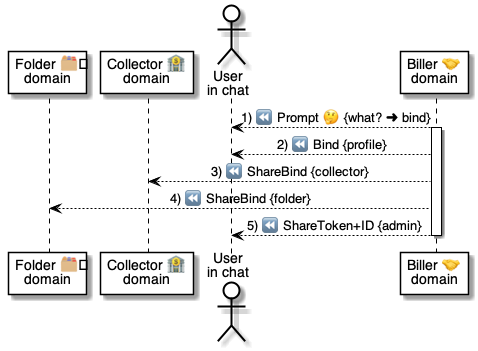
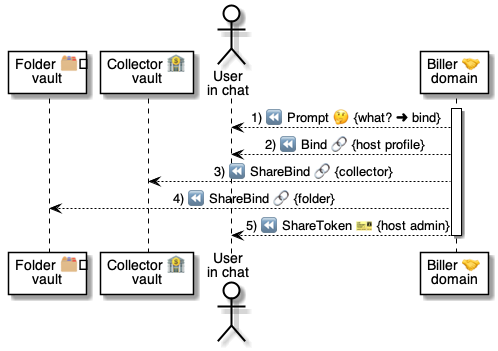
.

diff --git a/4 ⚙ Solution/20 🧑🦰 UI/01 🧑🦰 Wallets/01 🧑🦰 Wallet app.md b/4 ⚙ Solution/20 🧑🦰 UI/01 🧑🦰 Wallets/01 🧑🦰 Wallet app.md
@@ -144,7 +144,7 @@
     ||[👉 Home](<../../../5 ⏩ Flows/90 🧑🦰👉 Wallets/20 👉💬 Chats/02 🧑🦰👉🤵 Host home.md>) | Show the [Host's 🤗 ](<../12 💬 Chats/04 🤗🎭 Host role.md>) menu in a [Chat 💬](<../12 💬 Chats/01 💬 Chat.md>)
     ||[👉 Abandon](<../../../5 ⏩ Flows/90 🧑🦰👉 Wallets/20 👉💬 Chats/03 🧑🦰👉🤵 Abandon chat.md>) | Unilaterally abandon a [Chat 💬](<../12 💬 Chats/01 💬 Chat.md>)
     | 🔗 Binds | [👉 Binds ](<../../../5 ⏩ Flows/90 🧑🦰👉 Wallets/30 👉🔗 Binds/01 🧑🦰👉🤵 List Binds.md>) | List the user's [Binds 🔗](<../24 🗄 Vaults/01 🔗 Bind.md>)
-    || [👉 Bind](<../../../5 ⏩ Flows/90 🧑🦰👉 Wallets/30 👉🔗 Binds/02 🧑🦰👉🗄 Bind.md>) | [Bind 🔗](<../24 🗄 Vaults/01 🔗 Bind.md>) the [Wallet 🧑🦰](<01 🧑🦰 Wallet app.md>) to a [Vault 🗄](<../24 🗄 Vaults/03 🗄🎭 Vault role.md>)
+    || [👉 Bind](<../../../5 ⏩ Flows/90 🧑🦰👉 Wallets/30 👉🔗 Binds/02 🧑🦰👉🗄 Bind 🔗.md>) | [Bind 🔗](<../24 🗄 Vaults/01 🔗 Bind.md>) the [Wallet 🧑🦰](<01 🧑🦰 Wallet app.md>) to a [Vault 🗄](<../24 🗄 Vaults/03 🗄🎭 Vault role.md>)
     || [👉 Unbind](<../../../5 ⏩ Flows/90 🧑🦰👉 Wallets/30 👉🔗 Binds/03 🧑🦰👉🗄 Unbind.md>) | Remove a [Bind 🔗](<../24 🗄 Vaults/01 🔗 Bind.md>) from a [Vault 🗄](<../24 🗄 Vaults/03 🗄🎭 Vault role.md>)
     ||[👉 Share](<../../../5 ⏩ Flows/90 🧑🦰👉 Wallets/30 👉🔗 Binds/04 🧑🦰👉💼 Share Bind.md>) | Shares a [Bind 🔗](<../24 🗄 Vaults/01 🔗 Bind.md>) with a [Consumer 💼](<../27 💼 Consumers/04 💼🎭 Consumer role.md>)
     |🎫 Tokens| [👉 Tokens](<../../../5 ⏩ Flows/90 🧑🦰👉 Wallets/40 👉🎫 Tokens/01 🧑🦰👉🤵 List Tokens.md>)| List the user's [Tokens 🎫](<../../../4 ⚙ Solution/20 🧑🦰 UI/25 🎫 Tokens/01 🎫 Token.md>)

diff --git a/4 ⚙ Solution/20 🧑🦰 UI/24 🗄 Vaults/05 🛠👥 Helper domain.md b/4 ⚙ Solution/20 🧑🦰 UI/24 🗄 Vaults/05 🛠👥 Helper domain.md
@@ -87,7 +87,7 @@
     | - | - | - 
     | 🛠 [Helper](<05 🛠👥 Helper domain.md>) | 😃 Hi! What do you need? <br/>- [ Register ]  | > Register
     | 🤵 [Broker](<../../../4 ⚙ Solution/20 🧑🦰 UI/03 🤵 Brokers/03 🤵 Broker domain.md>) | 🫥 [Ready to register?](<../../../5 ⏩ Flows/20 💼⏩ Consumers/02 💼⏩🧑🦰 Inform 📝.md>) [Yes, No] <br>- Your broker binds with us 🔗 <br/>- You choose a billing plan 🤝 <br/>- Your payer adds a method 💳 <br/>- Your identity signs the terms 🆔 | > Yes
-    | 🤵 [Broker](<../03 🤵 Brokers/03 🤵 Broker domain.md>) | 🫥 [Bind?](<../../../5 ⏩ Flows/90 🧑🦰👉 Wallets/30 👉🔗 Binds/02 🧑🦰👉🗄 Bind.md>) [Yes, No, +]<br/>- [Host Profile 🧩](<../../../7 🧩 Codes/HOST/🧩 HostPersonalize.md>) | > Yes 
+    | 🤵 [Broker](<../03 🤵 Brokers/03 🤵 Broker domain.md>) | 🫥 [Bind?](<../../../5 ⏩ Flows/90 🧑🦰👉 Wallets/30 👉🔗 Binds/02 🧑🦰👉🗄 Bind 🔗.md>) [Yes, No, +]<br/>- [Host Profile 🧩](<../../../7 🧩 Codes/HOST/🧩 HostPersonalize.md>) | > Yes 
     | 🤵 [Broker](<../../../4 ⚙ Solution/20 🧑🦰 UI/03 🤵 Brokers/03 🤵 Broker domain.md>) | 🫥 [Allow guest domain?](<../../../5 ⏩ Flows/50 🤗⏩ Hosts/03 🤗⏩🧑🦰 Invite 🛠.md>) [Yes, No]  <br/> - Any Biller 🤝<br/>- [ Always ] for Any Helper 🛠 | > Always
     | 🤝 [Biller](<../../30 🫥 Agents/04 💳 Payers/06 🤝🛠 Biller helper.md>) | 😃 What plan to subscribe? <br/>- [ Simple ] pay-as-you-go  <br/>- [ Monthly ] commitment | > Simple
     | 💳 [Payer](<../../30 🫥 Agents/04 💳 Payers/03 💳🎭 Payer role.md>) | 🫥 Link to Any Biller? [Yes, No, +] <br/>- [ card ABC ] + $0.10<br/>- [ card DEF ] (free) | > card ABC 

diff --git a/4 ⚙ Solution/20 🧑🦰 UI/24 🗄 Vaults/03 🗄🎭 Vault role.md b/4 ⚙ Solution/20 🧑🦰 UI/24 🗄 Vaults/03 🗄🎭 Vault role.md
@@ -32,7 +32,7 @@
     | | Workflow |  Description
     |-|-|-
     | | [👉 Binds ](<../../../5 ⏩ Flows/90 🧑🦰👉 Wallets/30 👉🔗 Binds/01 🧑🦰👉🤵 List Binds.md>) | List the user's [Binds 🔗](<../24 🗄 Vaults/01 🔗 Bind.md>)
-    || [👉 Bind](<../../../5 ⏩ Flows/90 🧑🦰👉 Wallets/30 👉🔗 Binds/02 🧑🦰👉🗄 Bind.md>) | [Bind 🔗](<../24 🗄 Vaults/01 🔗 Bind.md>) the [Wallet 🧑🦰](<../01 🧑🦰 Wallets/01 🧑🦰 Wallet app.md>) to a [Vault 🗄](<../24 🗄 Vaults/03 🗄🎭 Vault role.md>)
+    || [👉 Bind](<../../../5 ⏩ Flows/90 🧑🦰👉 Wallets/30 👉🔗 Binds/02 🧑🦰👉🗄 Bind 🔗.md>) | [Bind 🔗](<../24 🗄 Vaults/01 🔗 Bind.md>) the [Wallet 🧑🦰](<../01 🧑🦰 Wallets/01 🧑🦰 Wallet app.md>) to a [Vault 🗄](<../24 🗄 Vaults/03 🗄🎭 Vault role.md>)
     || [👉 Unbind](<../../../5 ⏩ Flows/90 🧑🦰👉 Wallets/30 👉🔗 Binds/03 🧑🦰👉🗄 Unbind.md>) | Remove a [Bind 🔗](<../24 🗄 Vaults/01 🔗 Bind.md>) from a [Vault 🗄](<../24 🗄 Vaults/03 🗄🎭 Vault role.md>)
     
     ---

diff --git a/9 😃 Talkers/40 🌊 Talker flows/10 ⌘ Command.md b/9 😃 Talkers/40 🌊 Talker flows/10 ⌘ Command.md
@@ -72,7 +72,7 @@
 
     |Command|Purpose
     |-|-
-    | 🔗 [`BIND`](<../60 ⏩ Msg flows/44 🔗 BIND msg.md>) | Calls the [Bind Vault @ Wallet ⏩](<../../5 ⏩ Flows/90 🧑🦰👉 Wallets/30 👉🔗 Binds/02 🧑🦰👉🗄 Bind.md>) flow.
+    | 🔗 [`BIND`](<../60 ⏩ Msg flows/44 🔗 BIND msg.md>) | Calls the [Bind Vault @ Wallet ⏩](<../../5 ⏩ Flows/90 🧑🦰👉 Wallets/30 👉🔗 Binds/02 🧑🦰👉🗄 Bind 🔗.md>) flow.
     | 🎫 [`OFFER`](<../60 ⏩ Msg flows/49 🎫 OFFER msg.md>) | Calls the [Save Token @ Wallet ⏩](<../../5 ⏩ Flows/90 🧑🦰👉 Wallets/40 👉🎫 Tokens/02 🧑🦰👉🎴 Save Token.md>) flow.
     | 👋 [`GOODBYE`](<../60 ⏩ Msg flows/50 👋 GOODBYE.md>) | Calls the [Goodbye @ Host](<../../5 ⏩ Flows/50 🤗⏩ Hosts/07 🤗⏩🧑🦰 Goodbye 👋.md>) ⏩ flow.
     | 📜 [`FLOW`](<../60 ⏩ Msg flows/41 📝 INFORM msg.md>)

diff --git a/5 ⏩ Flows/10 🤵⏩ Brokers/05 🤵⏩🗄 Bind vault.md b/5 ⏩ Flows/10 🤵⏩ Brokers/05 🤵⏩🗄 Bind vault.md
@@ -5,7 +5,7 @@
 
 > Used in:
 > <br/>• [🧑🦰👉🤵 Onboard @ Wallet](<../90 🧑🦰👉 Wallets/10 👉🤵 Set-up/11 🧑🦰👉🤵 Onboard.md>) when setting the default [Vaults 🗄](<../../4 ⚙ Solution/20 🧑🦰 UI/24 🗄 Vaults/03 🗄🎭 Vault role.md>) upon install.
-> <br/>•  [🧑🦰👉🗄 Bind @ Wallet](<../90 🧑🦰👉 Wallets/30 👉🔗 Binds/02 🧑🦰👉🗄 Bind.md>) when the user binds to to a [Vault 🗄](<../../4 ⚙ Solution/20 🧑🦰 UI/24 🗄 Vaults/03 🗄🎭 Vault role.md>) in a chat.
+> <br/>•  [🧑🦰👉🗄 Bind @ Wallet](<../90 🧑🦰👉 Wallets/30 👉🔗 Binds/02 🧑🦰👉🗄 Bind 🔗.md>) when the user binds to to a [Vault 🗄](<../../4 ⚙ Solution/20 🧑🦰 UI/24 🗄 Vaults/03 🗄🎭 Vault role.md>) in a chat.
 
 
 

diff --git a/5 ⏩ Flows/07 🤝⏩ Billers/03 🧑🦰⏩🤝 Bind Biller.md b/5 ⏩ Flows/07 🤝⏩ Billers/03 🧑🦰⏩🤝 Bind Biller.md
@@ -1,0 +1,15 @@
+# 🧑🦰⏩🤝 Bind Biller
+
+<br/>
+
+## Flow diagram
+
+![alt text](<.📎 Assets/⚙ Bind Biller.png>)
+
+| # | Call | Notes
+|-|-|-|
+| [🤗⏩🧑🦰 Prompt 🤔](<../50 🤗⏩ Hosts/01 🤗⏩🧑🦰 Prompt 🤔.md>) |[Hosts 🤗](<../../4 ⚙ Solution/20 🧑🦰 UI/12 💬 Chats/04 🤗🎭 Host role.md>) ask for an action, users say `Bind`
+| [🧑🦰👉🗄 Bind 🔗](<../90 🧑🦰👉 Wallets/30 👉🔗 Binds/02 🧑🦰👉🗄 Bind 🔗.md>) | 
+| [🧑🦰👉💼 Share Bind 🔗](<../90 🧑🦰👉 Wallets/30 👉🔗 Binds/04 🧑🦰👉💼 Share Bind.md>)
+| [🧑🦰👉💼 Share Token 🎫](<../40 👉🎫 Tokens/04 🧑🦰👉💼 Share Token.md>)
+|

diff --git a/6 🅰 APIs/95 🗄🅰 Vault/02 🤵🐌🗄 Bound.md b/6 🅰 APIs/95 🗄🅰 Vault/02 🤵🐌🗄 Bound.md
@@ -7,7 +7,7 @@
 # 🤵🐌🗄 Bind @ Vault
 
 > Used by
-> <br/>- [🗄⏩🧑🦰 Bind @ Vault](<../../5 ⏩ Flows/90 🧑🦰👉 Wallets/30 👉🔗 Binds/02 🧑🦰👉🗄 Bind.md>) flow
+> <br/>- [🗄⏩🧑🦰 Bind @ Vault](<../../5 ⏩ Flows/90 🧑🦰👉 Wallets/30 👉🔗 Binds/02 🧑🦰👉🗄 Bind 🔗.md>) flow
 > <br/>- [🤵⏩🗄 Bind vault @ Broker](<../../5 ⏩ Flows/10 🤵⏩ Brokers/05 🤵⏩🗄 Bind vault.md>) flow
 
 <br/>

diff --git a/6 🅰 APIs/15 🤵🅰 Broker/40 🤵🅰 Binds 🔗/20 🗄🐌🤵 Bindable.md b/6 🅰 APIs/15 🤵🅰 Broker/40 🤵🅰 Binds 🔗/20 🗄🐌🤵 Bindable.md
@@ -4,7 +4,7 @@
 
 # 🗄🐌🤵 Bindable @ Broker
 
-> Called by [🗄⏩🧑🦰 Bind @ Vault](<../../../5 ⏩ Flows/90 🧑🦰👉 Wallets/30 👉🔗 Binds/02 🧑🦰👉🗄 Bind.md>).
+> Called by [🗄⏩🧑🦰 Bind @ Vault](<../../../5 ⏩ Flows/90 🧑🦰👉 Wallets/30 👉🔗 Binds/02 🧑🦰👉🗄 Bind 🔗.md>).
 
 
 * A [Vault 🗄 domain](<../../../4 ⚙ Solution/20 🧑🦰 UI/24 🗄 Vaults/03 🗄🎭 Vault role.md>) 

diff --git a/9 😃 Talkers/60 ⏩ Msg Flows/44 🔗 BIND msg.md b/9 😃 Talkers/60 ⏩ Msg Flows/44 🔗 BIND msg.md
@@ -8,7 +8,7 @@
 
     A `BIND`
     * is a message [Command ⌘](<../40 🌊 Talker flows/10 ⌘ Command.md>) 
-    * that invokes the [Bind @ Vault ⏩ flow](<../../5 ⏩ Flows/90 🧑🦰👉 Wallets/30 👉🔗 Binds/02 🧑🦰👉🗄 Bind.md>).
+    * that invokes the [Bind @ Vault ⏩ flow](<../../5 ⏩ Flows/90 🧑🦰👉 Wallets/30 👉🔗 Binds/02 🧑🦰👉🗄 Bind 🔗.md>).
 
     ---
     <br/>
